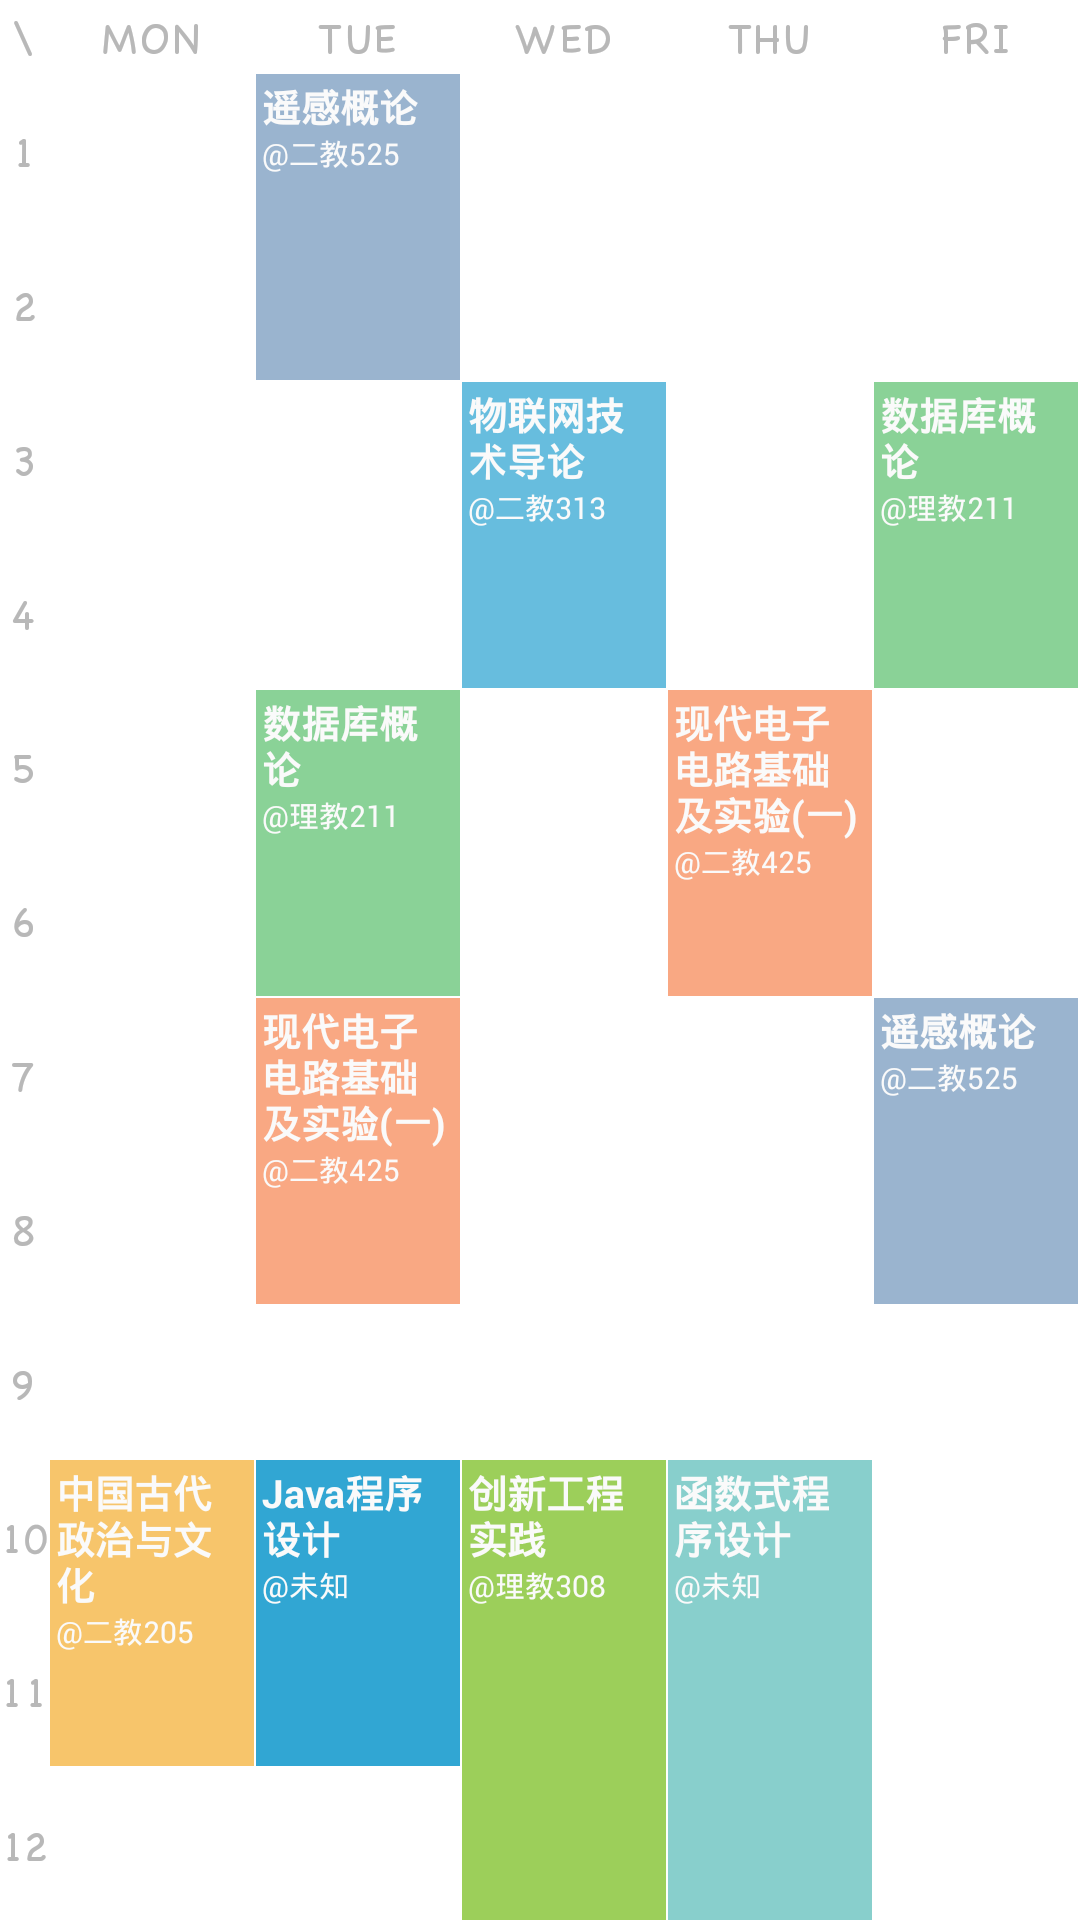
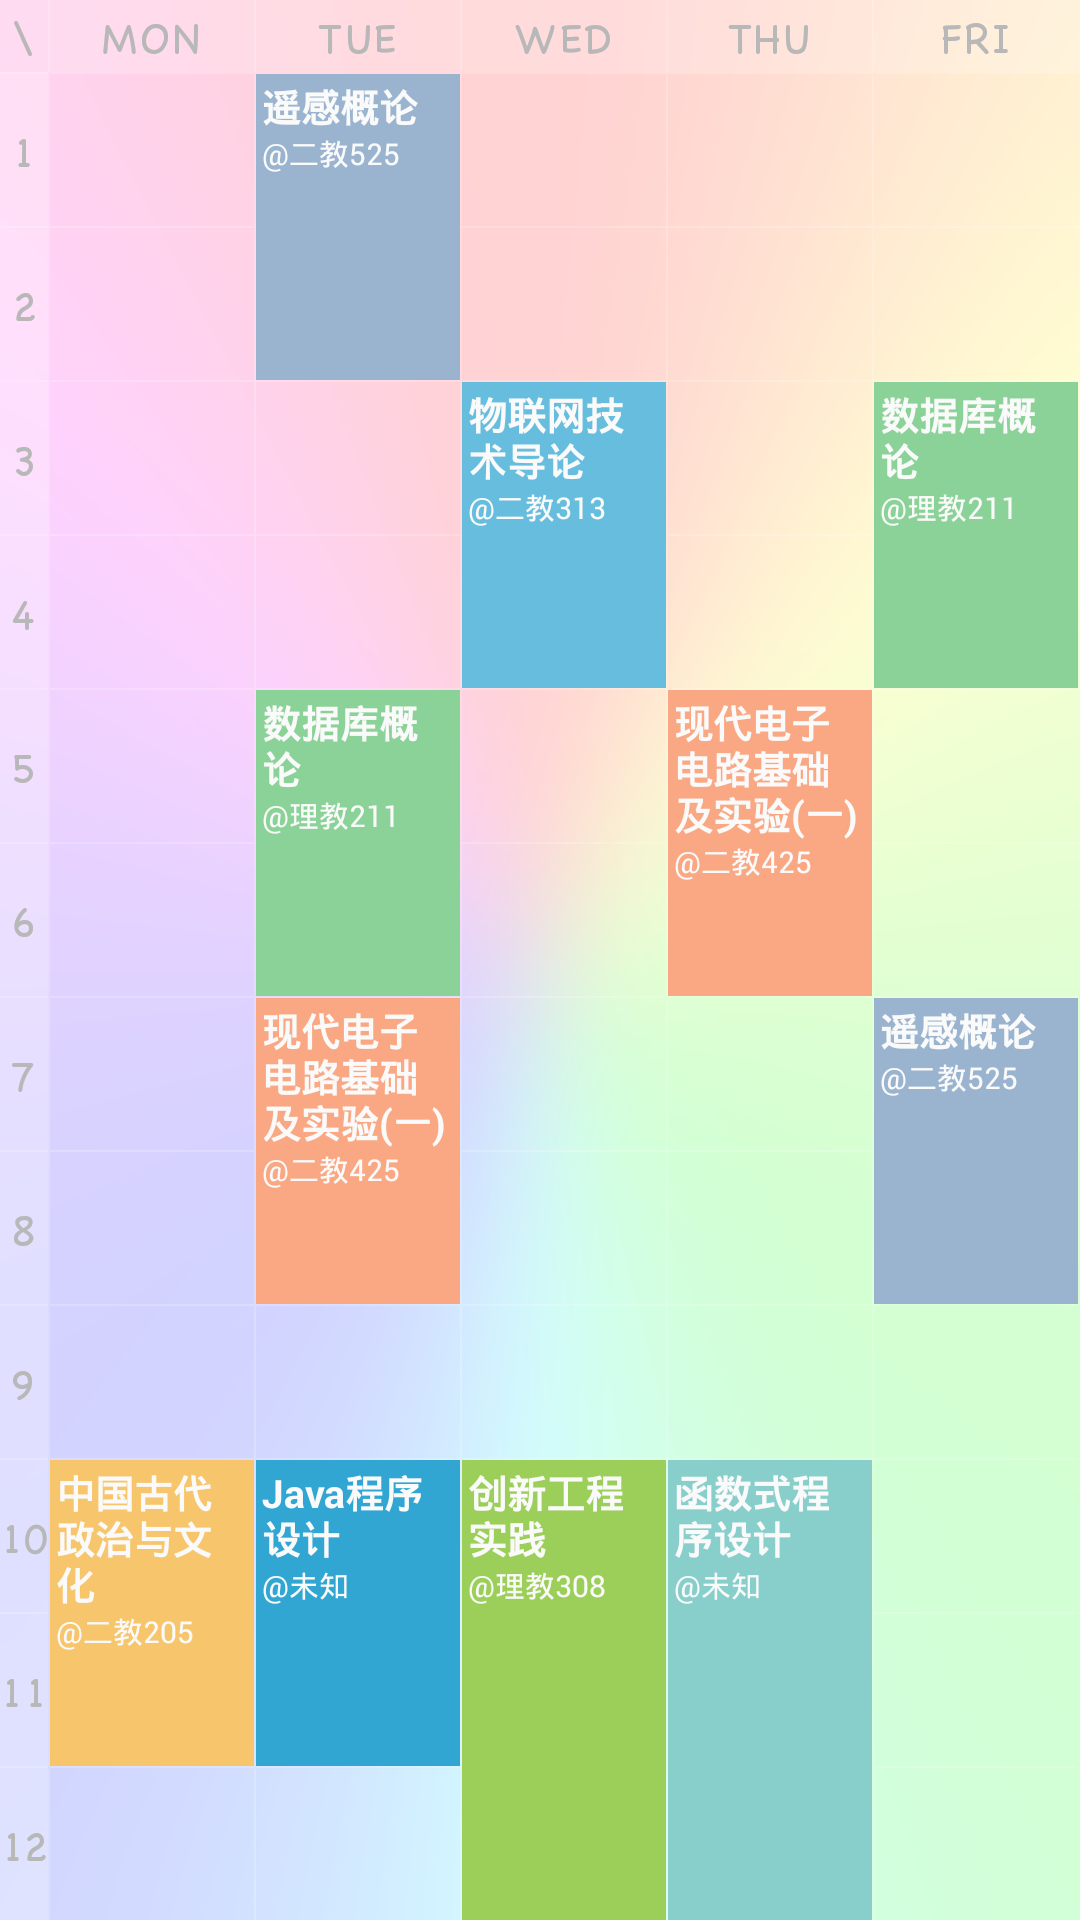
change screenshot

diff --git a/app/src/main/java/com/luolc/syllabustest/ScreenshotUtil.java b/app/src/main/java/com/luolc/syllabustest/ScreenshotUtil.java
@@ -25,7 +25,7 @@ public class ScreenshotUtil {
         int height = 0;
         for (int i = 0; i < scrollView.getChildCount(); ++i) {
             height += scrollView.getChildAt(i).getHeight();
-//            scrollView.getChildAt(i).setBackgroundResource(R.drawable.bg_default);
+            scrollView.getChildAt(i).setBackgroundResource(R.drawable.mypku_bg);
             Log.i("mLog", "i="+i);
             Log.i("mLog", scrollView.getChildAt(i).toString());
         }
